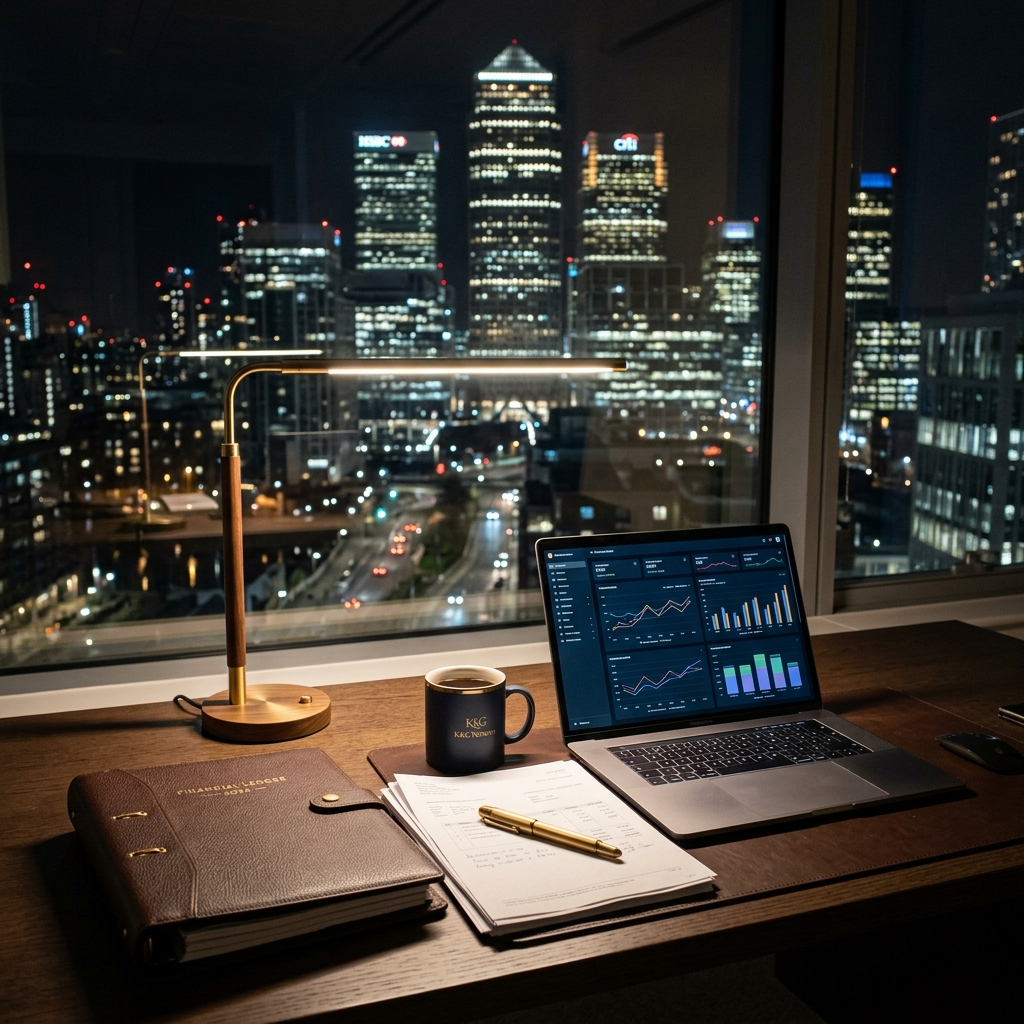
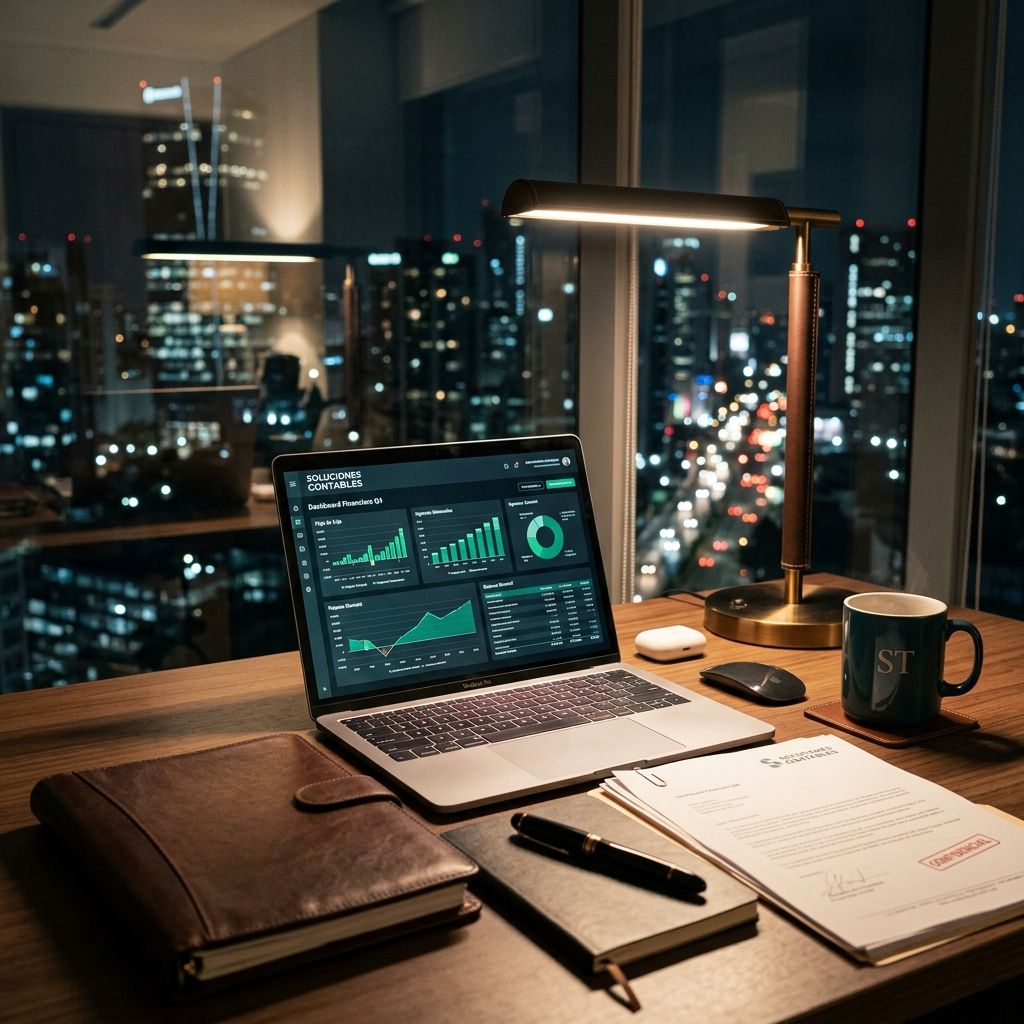
4.6

diff --git a/css/landing.css b/css/landing.css
@@ -623,8 +623,8 @@ h1, h2, h3, h4, h5, h6 {
    ------------------------------------------------------------- */
 .features-section {
   padding: 100px 0;
-  background: rgba(248, 250, 252, 0.35); /* Blends with fixed corporate background */
-  border-top: 1px solid var(--border-color);
+  background: transparent;
+  border-top: 1px solid rgba(226, 232, 240, 0.4);
   position: relative;
 }
 
@@ -712,8 +712,8 @@ h1, h2, h3, h4, h5, h6 {
    ------------------------------------------------------------- */
 .pricing-section {
   padding: 100px 0;
-  border-top: 1px solid var(--border-color);
-  background: rgba(241, 245, 249, 0.55);
+  border-top: 1px solid rgba(226, 232, 240, 0.4);
+  background: transparent;
 }
 
 .pricing-grid {
@@ -840,8 +840,8 @@ h1, h2, h3, h4, h5, h6 {
    ------------------------------------------------------------- */
 .contact-section {
   padding: 100px 0;
-  border-top: 1px solid var(--border-color);
-  background: rgba(255, 255, 255, 0.4);
+  border-top: 1px solid rgba(226, 232, 240, 0.4);
+  background: transparent;
 }
 
 .partners-card, .contact-card {

diff --git a/src/views/landing.js b/src/views/landing.js
@@ -149,7 +149,7 @@ export function renderLanding() {
     </section>
 
     <!-- Institutional Prestige Section -->
-    <section id="prestige" class="prestige-section" style="padding: 100px 0; border-top: 1px solid var(--border-color); background: var(--bg-secondary); position: relative; overflow: hidden;">
+    <section id="prestige" class="prestige-section" style="padding: 100px 0; border-top: 1px solid rgba(226, 232, 240, 0.4); background: transparent; position: relative; overflow: hidden;">
       <div class="container">
         <div class="prestige-grid-layout" style="display: grid; grid-template-columns: 1fr 1fr; gap: 64px; align-items: center;">
           